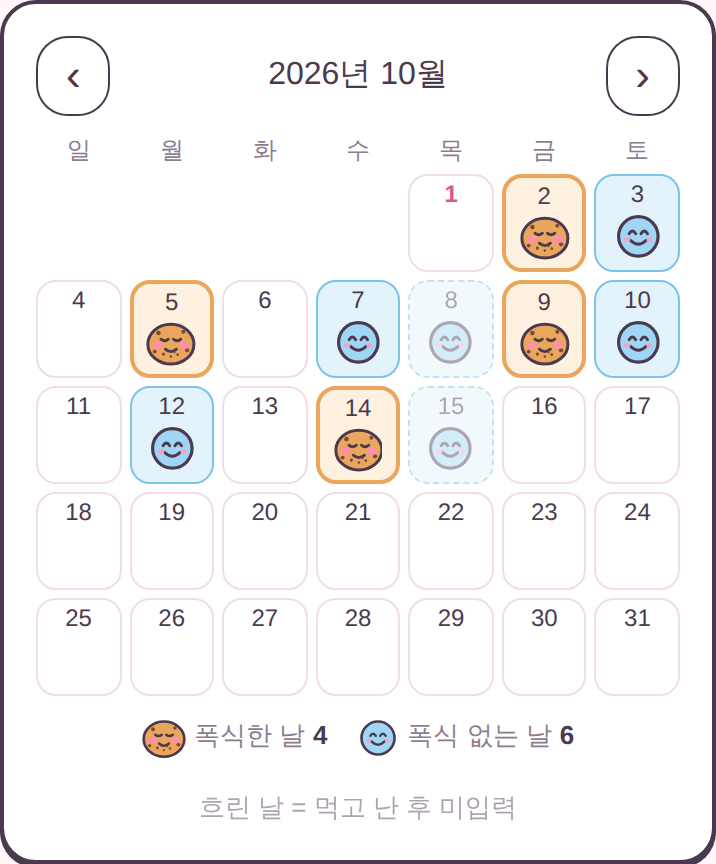
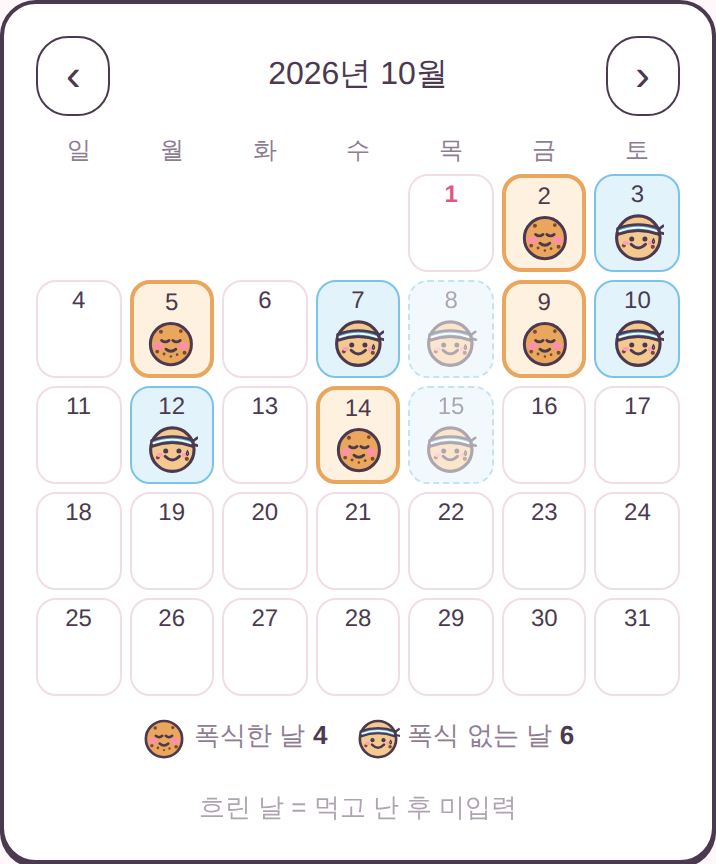
Match calendar faces: same cookie, headband for non-binge days
Claude-Session: https://claude.ai/code/session_01D68hpE9EAyDwW3YvrEEF6Q

diff --git a/characters.js b/characters.js
@@ -103,22 +103,30 @@ export function gang(mood = 'happy') {
   return `<div class="gang">${['chips', 'cookie', 'icecream', 'donut', 'choco'].map((id, i) => character(id, i % 2 ? 'calm' : mood)).join('')}</div>`;
 }
 
-// 달력용 작은 얼굴: 작게 보여도 구분되도록 모양과 색을 크게 다르게
-// 폭식한 날 = 배부른 통통 쿠키 (입가에 부스러기), 폭식 없는 날 = 하늘색 스마일
+// 달력용 작은 얼굴: 같은 크기의 쿠키 얼굴, 표정·소품으로 구분
+// 폭식한 날 = 배부른 쿠키 (빵빵한 볼, 입가 부스러기), 폭식 없는 날 = 머리띠 두른 운동하는 쿠키
+const cookieBase = (fill) => `
+  <circle cx="20" cy="21" r="16.5" fill="${fill}" stroke="${INK}" stroke-width="2.4"/>
+  <circle cx="9" cy="27" r="1.5" fill="#7a4a32"/><circle cx="31" cy="28" r="1.6" fill="#7a4a32"/>`;
+
 export function dayFace(binge) {
   return binge
     ? `<svg class="dayface" viewBox="0 0 40 40" aria-label="폭식한 날">
-        <ellipse cx="20" cy="21" rx="18.5" ry="16" fill="#e9a65c" stroke="${INK}" stroke-width="2.4"/>
-        <circle cx="10" cy="12" r="1.8" fill="#7a4a32"/><circle cx="30" cy="11" r="1.6" fill="#7a4a32"/><circle cx="33" cy="26" r="1.7" fill="#7a4a32"/><circle cx="7" cy="27" r="1.5" fill="#7a4a32"/>
-        <ellipse cx="9.5" cy="22" rx="4" ry="3" fill="#ff8fab"/><ellipse cx="30.5" cy="22" rx="4" ry="3" fill="#ff8fab"/>
-        <path d="M12 17 q3 2.5 6 0 M22 17 q3 2.5 6 0" fill="none" stroke="${INK}" stroke-width="2.2" stroke-linecap="round"/>
-        <path d="M15.5 25 q4.5 4 9 0" fill="none" stroke="${INK}" stroke-width="2.2" stroke-linecap="round"/>
-        <circle cx="14" cy="29" r="1.3" fill="#7a4a32"/><circle cx="25.5" cy="29.5" r="1.1" fill="#7a4a32"/><circle cx="20" cy="31" r="1" fill="#7a4a32"/><circle cx="23" cy="27.5" r=".8" fill="#7a4a32"/>
+        ${cookieBase('#e9a65c')}
+        <circle cx="12" cy="11" r="1.6" fill="#7a4a32"/><circle cx="28" cy="10.5" r="1.5" fill="#7a4a32"/>
+        <ellipse cx="10" cy="22.5" rx="4" ry="3" fill="#ff8fab"/><ellipse cx="30" cy="22.5" rx="4" ry="3" fill="#ff8fab"/>
+        <path d="M12.5 18 q3 2.5 6 0 M21.5 18 q3 2.5 6 0" fill="none" stroke="${INK}" stroke-width="2.2" stroke-linecap="round"/>
+        <path d="M16 25 q4 3.5 8 0" fill="none" stroke="${INK}" stroke-width="2.2" stroke-linecap="round"/>
+        <circle cx="14.5" cy="29" r="1.2" fill="#7a4a32"/><circle cx="25" cy="29.5" r="1.1" fill="#7a4a32"/><circle cx="20" cy="31" r="1" fill="#7a4a32"/>
       </svg>`
     : `<svg class="dayface" viewBox="0 0 40 40" aria-label="폭식 없는 날">
-        <circle cx="20" cy="20" r="15" fill="#9fd6f5" stroke="${INK}" stroke-width="2.4"/>
-        <path d="M13 18 q2.5 -4 5 0 M22 18 q2.5 -4 5 0" fill="none" stroke="${INK}" stroke-width="2.2" stroke-linecap="round"/>
-        <path d="M14 23 q6 6 12 0" fill="none" stroke="${INK}" stroke-width="2.2" stroke-linecap="round"/>
-        <ellipse cx="11.5" cy="22.5" rx="2.4" ry="1.6" fill="#ff9fb8"/><ellipse cx="28.5" cy="22.5" rx="2.4" ry="1.6" fill="#ff9fb8"/>
+        ${cookieBase('#f4c98f')}
+        <path d="M4.2 14 Q20 8 35.8 14 L35.6 18.6 Q20 12.8 4.4 18.6 Z" fill="#4fa8dc" stroke="${INK}" stroke-width="2" stroke-linejoin="round"/>
+        <path d="M5 16.3 Q20 10.6 35 16.3" fill="none" stroke="#fff" stroke-width="1.3"/>
+        <path d="M35 15 l4 -3 M35.4 17 l4 1" stroke="${INK}" stroke-width="2" stroke-linecap="round"/>
+        <circle cx="15" cy="22" r="1.9" fill="${INK}"/><circle cx="25" cy="22" r="1.9" fill="${INK}"/>
+        <path d="M14.5 26 q5.5 5.5 11 0" fill="none" stroke="${INK}" stroke-width="2.2" stroke-linecap="round"/>
+        <ellipse cx="10.5" cy="25" rx="2.4" ry="1.6" fill="#ff9fb8"/><ellipse cx="29.5" cy="25" rx="2.4" ry="1.6" fill="#ff9fb8"/>
+        <path d="M31.5 22 q-1.6 2.6 0 3.4 q1.6 -0.8 0 -3.4z" fill="#9fd6f5" stroke="${INK}" stroke-width="1"/>
       </svg>`;
 }

diff --git a/sw.js b/sw.js
@@ -1,5 +1,5 @@
 // 오프라인용 서비스 워커: 항상 최신 파일을 먼저 받고, 인터넷이 없을 때만 저장본을 쓴다
-const CACHE = 'snackjournal-v18';
+const CACHE = 'snackjournal-v19';
 const ASSETS = ['./', './index.html', './style.css', './app.js', './db.js', './characters.js', './manifest.webmanifest', './icons/icon.svg'];
 
 self.addEventListener('install', (e) => {
